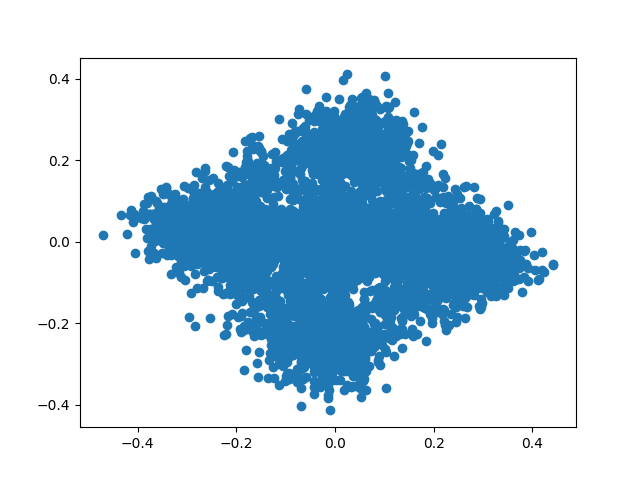
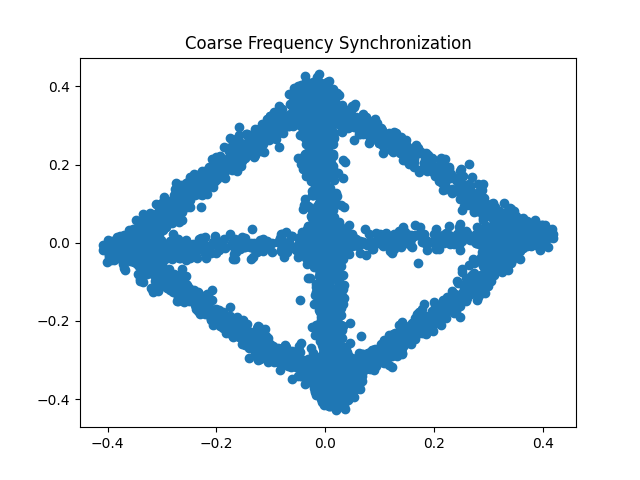
new plots

diff --git a/Cesium_Sattelite/binary_search_caf.py b/Cesium_Sattelite/binary_search_caf.py
@@ -9,7 +9,7 @@ freq_offset = 20000
 time_delay = 0.00232
 max_freq = 200
 min_freq = -200
-snr_db = 10
+snr_db = 20
 
 def integer_delay(signal, num_samples):
     '''Apply an integer delay by padding the front of the signal with zeros'''
@@ -108,6 +108,7 @@ def coarse_freq_recovery(qpsk_wave, order=4):
 
     if DEBUG:
         plt.plot(np.real(fixed_qpsk[1:]),np.imag(fixed_qpsk[1:]), 'o')
+        plt.title('Coarse Frequency Synchronization')
         plt.savefig('media/coarse_correction.png')
         plt.close()
         
@@ -152,12 +153,24 @@ def costas_loop(qpsk_wave):
     #finds the frequency at the end when it converged
     print(f'Costas Converged Frequency Offset: {freq_log[-1]}')
 
+    t = np.arange(len(qpsk_wave)) / SAMPLE_RATE
+    fixed_qpsk = qpsk_wave * np.exp(-1j * 2 * np.pi * freq_log[-1] * t)
+
     if DEBUG:
         plt.plot(freq_log,'.-')
-        plt.title('freq converge')
-        plt.clf()
-    t = np.arange(len(qpsk_wave)) / SAMPLE_RATE
-    return qpsk_wave * np.exp(-1j * 2 * np.pi * freq_log[-1] * t)
+        plt.title('Costas Loop Frequency Convergence')
+        plt.savefig('media/costas_convergence.png')
+        plt.close()
+
+        
+        plt.plot(np.real(fixed_qpsk[1:-1]),np.imag(fixed_qpsk[1:-1]), 'b-')
+        plt.plot(np.real(fixed_qpsk[1:-1:int(SAMPLE_RATE/SYMB_RATE)]),np.imag(fixed_qpsk[1:-1:int(SAMPLE_RATE/SYMB_RATE)]), 'ro')
+
+        plt.title('Fine Frequency Synchronization (Costas Loop)')
+        plt.savefig('media/fine_correction.png')
+        plt.close()
+
+    return fixed_qpsk
     
 
 def mixing(signal, f, ip_val=1):
@@ -268,6 +281,9 @@ def cross_corr_caf(rx_signal):
 
     deci_signal /= h_norm
 
+    t = np.arange(len(deci_signal)) / SAMPLE_RATE
+    fixed_signal = deci_signal * np.exp(-1j * 2 * np.pi * freq_found * t)
+
     if DEBUG:
         # Plotting the unit circle
         # Calculate phase in degrees and radians
@@ -320,11 +336,15 @@ def cross_corr_caf(rx_signal):
         # Add legend and title
         ax.set_title('Phase Offset Detected')
 
-        plt.savefig('media/phase_offset.png')
+        plt.savefig('media/phase_offset_unit.png')
         plt.close()
         
-    t = np.arange(len(deci_signal)) / SAMPLE_RATE
-    fixed_signal = deci_signal * np.exp(-1j * 2 * np.pi * freq_found * t)
+        plt.plot(np.real(fixed_signal[1:]),np.imag(fixed_signal[1:]), 'o')
+        plt.title('IQ Plot after Phase Correction')
+        plt.savefig('media/phase_corrected_signal.png')
+        plt.close()
+        
+    
 
     return fixed_signal
 
@@ -406,6 +426,11 @@ def main():
     # Demodulate qpsk and display message
     message = demodulator(signal_ready)
     
+    if DEBUG:
+        plt.plot(np.real(signal_ready[1:]),np.imag(signal_ready[1:]), 'b.-')
+        plt.title('Final IQ Plot')
+        plt.savefig('media/clean_signal.png')
+        plt.close()
     #message = channel_handler(qpsk_base)
     print(f"The decoded message = {message}")
 

diff --git a/Cesium_Sattelite/config.py b/Cesium_Sattelite/config.py
@@ -1,6 +1,6 @@
 SAMPLE_RATE = 2.88e6
 SYMB_RATE = SAMPLE_RATE / 20
-NUMTAPS = 301
+NUMTAPS = 41
 INTERPOLATION_VAL = 16
 START_MARKER =[1, 1, 1, 1, 1, 1, 1, 0, 0, 0, 1, 1, 1, 0, 1, 1, 0, 0, 0, 1, 0, 1, 0, 0, 1, 0, 1, 1, 1, 1, 1, 0, 1, 0, 1, 0, 1,
             0, 0, 0, 0, 1, 0, 1, 1, 0, 1, 1, 1, 1, 0, 0, 1, 1, 1, 0, 0, 1, 0, 1, 0, 1, 1, 0, 0, 1, 1, 0, 0, 0, 0, 0, 1, 1,
